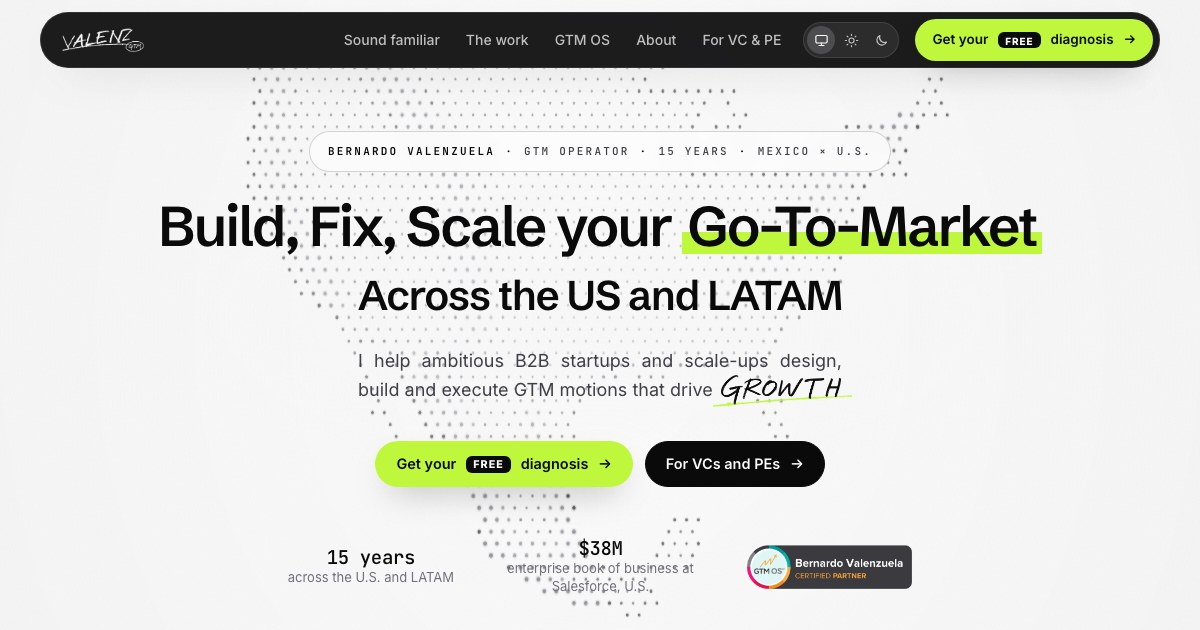
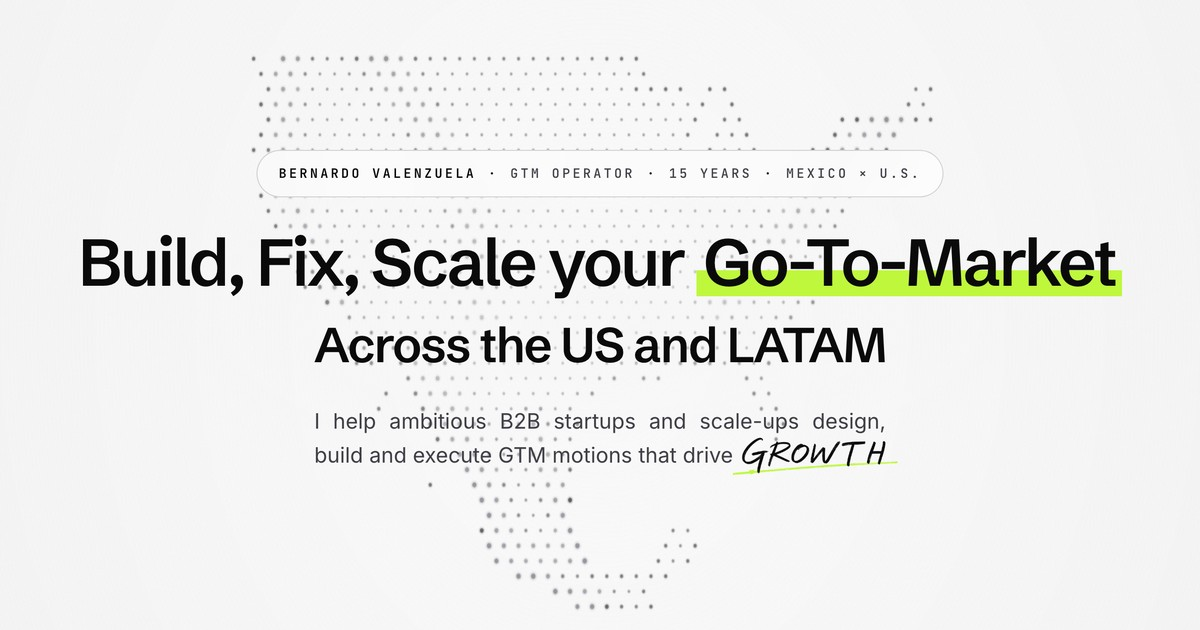
Share preview: image is the home page's first-screen section (name box, headline, line with GROWTH, dot map); link-preview title 'B. Valenzuela | GTM Strategy and Execution Across the US & LATAM'

Changed region(s): [[0.0308, 0.0, 0.9867, 0.9651], [0.6167, 0.8444, 0.7708, 0.9349], [0.2467, 0.8746, 0.37, 0.9349]]

diff --git a/index.html b/index.html
@@ -14,17 +14,17 @@
 <meta property="og:type" content="website">
 <meta property="og:site_name" content="valenzGTM">
 <meta property="og:url" content="https://galapago.io/">
-<meta property="og:title" content="GTM Strategy & Execution for early-stage B2B companies">
+<meta property="og:title" content="B. Valenzuela | GTM Strategy and Execution Across the US & LATAM">
 <meta property="og:description" content="Across the US and LATAM. Build, Fix or Scale your Go-To-Market, starting with a free diagnosis.">
-<meta property="og:image" content="https://galapago.io/assets/og-image.jpg?v=6">
+<meta property="og:image" content="https://galapago.io/assets/og-image.jpg?v=7">
 <meta property="og:image:width" content="1200"><meta property="og:image:height" content="630">
-<meta property="og:image:alt" content="Build, Fix, Scale your Go-To-Market, across the US and LATAM">
+<meta property="og:image:alt" content="Build, Fix, Scale your Go-To-Market. Across the US and LATAM.">
 <meta property="og:locale" content="en_US">
 <meta name="twitter:card" content="summary_large_image">
-<meta name="twitter:title" content="GTM Strategy & Execution for early-stage B2B companies">
+<meta name="twitter:title" content="B. Valenzuela | GTM Strategy and Execution Across the US & LATAM">
 <meta name="twitter:description" content="Across the US and LATAM. Build, Fix or Scale your Go-To-Market, starting with a free diagnosis.">
-<meta name="twitter:image" content="https://galapago.io/assets/og-image.jpg?v=6">
-<meta name="twitter:image:alt" content="Build, Fix, Scale your Go-To-Market, across the US and LATAM">
+<meta name="twitter:image" content="https://galapago.io/assets/og-image.jpg?v=7">
+<meta name="twitter:image:alt" content="Build, Fix, Scale your Go-To-Market. Across the US and LATAM.">
 <link rel="icon" href="favicon.ico" sizes="48x48">
 <link rel="icon" type="image/png" sizes="32x32" href="assets/favicon-32.png?v=5">
 <link rel="icon" type="image/png" sizes="96x96" href="assets/favicon-96.png?v=1">
